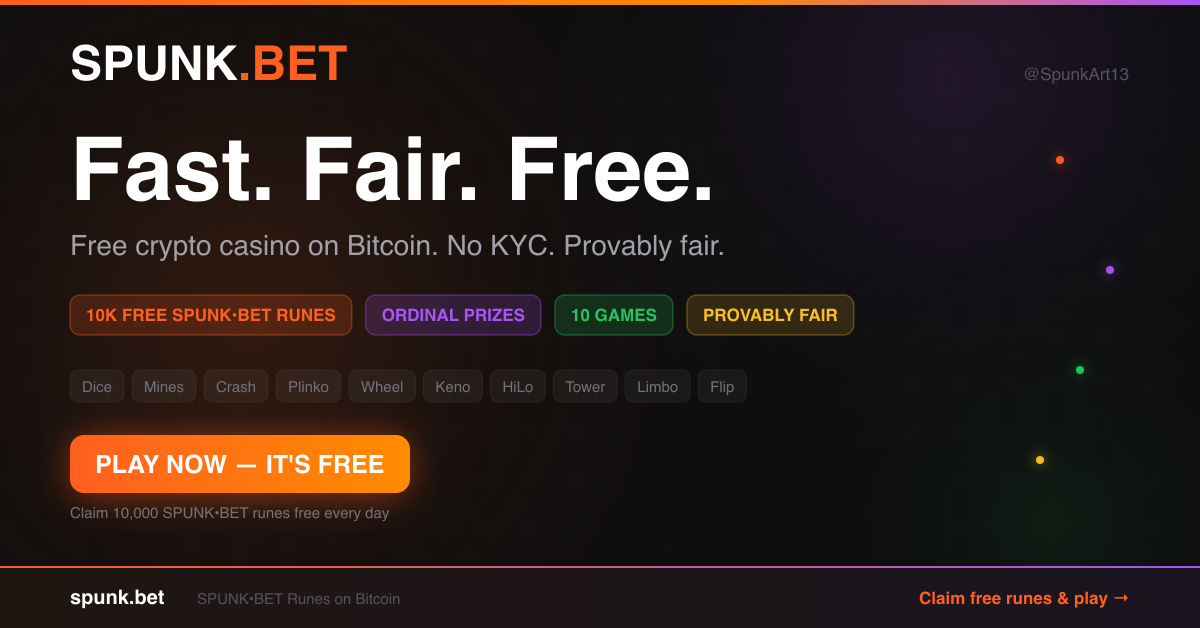
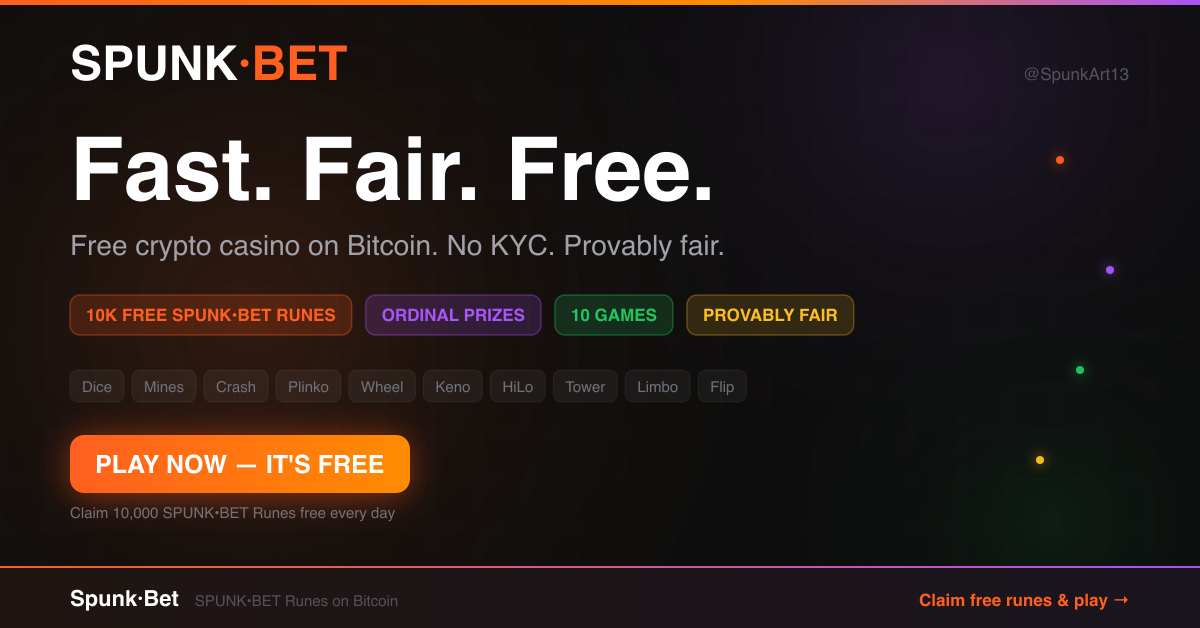
Brand consistency: uppercase SPUNK·BET, middle dot, matching colors everywhere
OG Share Image:
- SPUNK·BET with centered middle dot (not baseline period)
- Uppercase throughout

Win Card (X shares):
- SPUNK·BET uppercase logo with middle dot
- Dark background #0d0d0d matching site
- Orange + purple ambient glows matching site aesthetic
- Top bar: orange → purple gradient
- Bottom bar: gradient accent line matching site footer
- Grid pattern at 48px matching site

Prize Ordinals:
- Removed incorrect "SpunkArt Collection" — shows actual collection data
- Dynamic collection fetch from ME API for real attribution
- Generic ordinals show as "Bitcoin Ordinal" without fake badge
- Child inscriptions show parent link on wallet page
- Collection badge only appears for real named collections

diff --git a/index.html b/index.html
@@ -2664,29 +2664,41 @@ function generateWinCard(options) {
   c.width = 1200; c.height = 628;
   const ctx = c.getContext('2d');
 
-  // Background
-  ctx.fillStyle = '#0a0a0a';
+  // Background — matches site #0d0d0d
+  ctx.fillStyle = '#0d0d0d';
   ctx.fillRect(0, 0, 1200, 628);
 
-  // Subtle grid pattern
-  ctx.strokeStyle = 'rgba(255,255,255,0.02)';
-  ctx.lineWidth = 1;
-  for (let i = 0; i < 1200; i += 40) { ctx.beginPath(); ctx.moveTo(i, 0); ctx.lineTo(i, 628); ctx.stroke(); }
-  for (let i = 0; i < 628; i += 40) { ctx.beginPath(); ctx.moveTo(0, i); ctx.lineTo(1200, i); ctx.stroke(); }
+  // Orange ambient glow
+  const glow1 = ctx.createRadialGradient(200, 300, 0, 200, 300, 500);
+  glow1.addColorStop(0, 'rgba(255,95,31,0.12)'); glow1.addColorStop(1, 'rgba(0,0,0,0)');
+  ctx.fillStyle = glow1; ctx.fillRect(0, 0, 1200, 628);
 
-  // Top accent bar
+  // Purple ambient glow
+  const glow2 = ctx.createRadialGradient(900, 100, 0, 900, 100, 400);
+  glow2.addColorStop(0, 'rgba(168,85,247,0.08)'); glow2.addColorStop(1, 'rgba(0,0,0,0)');
+  ctx.fillStyle = glow2; ctx.fillRect(0, 0, 1200, 628);
+
+  // Subtle grid pattern
+  ctx.strokeStyle = 'rgba(255,255,255,0.018)';
+  ctx.lineWidth = 1;
+  for (let i = 0; i < 1200; i += 48) { ctx.beginPath(); ctx.moveTo(i, 0); ctx.lineTo(i, 628); ctx.stroke(); }
+  for (let i = 0; i < 628; i += 48) { ctx.beginPath(); ctx.moveTo(0, i); ctx.lineTo(1200, i); ctx.stroke(); }
+
+  // Top accent bar — orange to purple gradient
   const grad = ctx.createLinearGradient(0, 0, 1200, 0);
   grad.addColorStop(0, '#ff5f1f');
-  grad.addColorStop(1, '#ff8c00');
+  grad.addColorStop(0.6, '#ff8c00');
+  grad.addColorStop(1, '#a855f7');
   ctx.fillStyle = grad;
   ctx.fillRect(0, 0, 1200, 5);
 
-  // Logo
+  // Logo — SPUNK·BET uppercase with middle dot
   ctx.font = 'bold 38px -apple-system, system-ui, sans-serif';
   ctx.fillStyle = '#fff';
-  ctx.fillText('spunk', 60, 70);
+  ctx.fillText('SPUNK', 60, 70);
   ctx.fillStyle = '#ff5f1f';
-  ctx.fillText('.bet', 60 + ctx.measureText('spunk').width, 70);
+  const _lw = ctx.measureText('SPUNK').width;
+  ctx.fillText('\u00B7BET', 60 + _lw, 70);
 
   if (isReferral) {
     // Referral card
@@ -2756,11 +2768,16 @@ function generateWinCard(options) {
     ctx.fillText('Free daily runes \u00B7 Real ordinal prizes \u00B7 Free daily wheel spin', 60, 430);
   }
 
-  // Bottom bar with referral
-  ctx.fillStyle = '#111';
+  // Bottom bar with referral — brand-consistent
+  ctx.fillStyle = '#111111';
   ctx.fillRect(0, 540, 1200, 88);
-  ctx.fillStyle = 'rgba(255,95,31,0.08)';
-  ctx.fillRect(0, 540, 1200, 88);
+  const _bg = ctx.createLinearGradient(0, 540, 1200, 540);
+  _bg.addColorStop(0, 'rgba(255,95,31,0.06)'); _bg.addColorStop(1, 'rgba(168,85,247,0.06)');
+  ctx.fillStyle = _bg; ctx.fillRect(0, 540, 1200, 88);
+  // Accent line
+  const _bl = ctx.createLinearGradient(0, 0, 1200, 0);
+  _bl.addColorStop(0, '#ff5f1f'); _bl.addColorStop(1, '#a855f7');
+  ctx.fillStyle = _bl; ctx.fillRect(0, 540, 1200, 2);
 
   ctx.font = 'bold 26px -apple-system, system-ui, sans-serif';
   ctx.fillStyle = '#fff';
@@ -5336,7 +5353,7 @@ const KNOWN_PRIZES = [
     contentType: 'image/webp', contentLength: '63 KB',
     contentURI: 'https://ordinals.com/content/0a363cdd84ca2d49a9b55d20f82af5d82c781444f8d64caa09b95136e3306412i0',
     contentPreviewURI: 'https://ordinals.com/content/0a363cdd84ca2d49a9b55d20f82af5d82c781444f8d64caa09b95136e3306412i0',
-    collectionName: 'SpunkArt Collection', collection: 'spunkart',
+    collectionName: 'Bitcoin Ordinal', collection: '',
     timestamp: '2026-02-09', satRarity: 'common',
   },
   {
@@ -5346,7 +5363,7 @@ const KNOWN_PRIZES = [
     contentType: 'image/svg+xml', contentLength: '4 KB',
     contentURI: 'https://ordinals.com/content/d7244525a36a312105aa2c9db78778b98ec659b30b4e6063d7b9a9dfd47dc2b7i0',
     contentPreviewURI: 'https://ordinals.com/content/d7244525a36a312105aa2c9db78778b98ec659b30b4e6063d7b9a9dfd47dc2b7i0',
-    collectionName: 'SpunkArt Collection', collection: 'spunkart',
+    collectionName: 'Bitcoin Ordinal', collection: '',
     timestamp: '2026-02-13', satRarity: 'common',
   },
   {
@@ -5356,7 +5373,7 @@ const KNOWN_PRIZES = [
     contentType: 'image/webp', contentLength: '61 KB',
     contentURI: 'https://ordinals.com/content/65e06f5b9ccbd0202268e5f3d4d778e77c0a10af5ab1dbe55f7210f9121884adi0',
     contentPreviewURI: 'https://ordinals.com/content/65e06f5b9ccbd0202268e5f3d4d778e77c0a10af5ab1dbe55f7210f9121884adi0',
-    collectionName: 'SpunkArt Collection', collection: 'spunkart',
+    collectionName: 'Bitcoin Ordinal', collection: '',
     timestamp: '2026-02-09', satRarity: 'common',
   },
   {
@@ -5366,7 +5383,8 @@ const KNOWN_PRIZES = [
     contentType: 'image/svg+xml', contentLength: '1 KB',
     contentURI: 'https://ordinals.com/content/c6e9ad7454cf9bb8b1d75ec9df13229dee1e18f16a5fd57b6549de87e8cce4abi5',
     contentPreviewURI: 'https://ordinals.com/content/c6e9ad7454cf9bb8b1d75ec9df13229dee1e18f16a5fd57b6549de87e8cce4abi5',
-    collectionName: 'SpunkArt Collection', collection: 'spunkart',
+    collectionName: 'Bitcoin Ordinal', collection: '',
[1 lines of base64/hex data omitted]
     timestamp: '2026-02-08', satRarity: 'common',
   }
 ];
@@ -5385,9 +5403,45 @@ function enrichWithKnown(list) {
   return list.map(item => {
     const id = item.id || item.inscriptionId || '';
     const known = KNOWN_PRIZES.find(k => k.id === id);
-    if (known) return { ...known, ...item, collectionName: known.collectionName, collection: known.collection, inscriptionNumber: known.inscriptionNumber, number: known.number, contentType: known.contentType };
+    if (known) {
+      const merged = { ...known, ...item, inscriptionNumber: known.inscriptionNumber, number: known.number, contentType: known.contentType };
+      // Use API collection data if available, otherwise use known fallback
+      if (item.collectionName && item.collectionName !== 'Bitcoin Ordinal') {
+        merged.collectionName = item.collectionName;
+        merged.collection = item.collection || item.collectionSymbol || '';
+      } else {
+        merged.collectionName = known.collectionName;
+        merged.collection = known.collection;
+      }
+      if (known.parentInscription) merged.parentInscription = known.parentInscription;
+      return merged;
+    }
     return item;
   });
+}
+
+// Try to fetch real collection data from ME API for each ordinal
+async function fetchCollectionData(list) {
+  const updated = [...list];
+  for (let i = 0; i < updated.length; i++) {
+    const item = updated[i];
+    if (item.collection && item.collectionName !== 'Bitcoin Ordinal') continue; // Already has collection
+    const id = item.id || item.inscriptionId || '';
+    if (!id) continue;
+    try {
+      const res = await fetch('https://api-mainnet.magiceden.dev/v2/ord/btc/tokens/' + id);
+      if (res.ok) {
+        const data = await res.json();
+        if (data.collectionName) {
+          updated[i] = { ...item, collectionName: data.collectionName, collection: data.collectionSymbol || data.collection || '' };
+        }
+        if (data.meta && data.meta.name) {
+          updated[i].metaName = data.meta.name;
+        }
+      }
+    } catch(e) {}
+  }
+  return updated;
 }
 
 async function scanPrizeWallet() {
@@ -5469,6 +5523,17 @@ async function scanPrizeWallet() {
   // Enrich all items with known metadata (collection names, numbers, etc.)
   list = enrichWithKnown(list);
 
+  // Try to fetch real collection data from ME API (non-blocking)
+  fetchCollectionData(list).then(updated => {
+    const changed = updated.some((u, i) => u.collectionName !== list[i].collectionName);
+    if (changed) {
+      prizeOrdinals = updated;
+      localStorage.setItem('spunkbet_prizes', JSON.stringify(updated));
+      renderPrizes('prize-grid');
+      renderPrizes('wallet-prize-grid');
+    }
+  }).catch(() => {});
+
   // Update if we got data
   const hash = JSON.stringify(list.map(t => t.id || t.inscriptionId || ''));
   if (list.length > 0) {
@@ -5537,10 +5602,13 @@ function renderPrizes(containerId) {
       imgHtml = '<div class="prize-img-bg ' + bg + '"></div><span style="position:relative;z-index:1;filter:drop-shadow(0 4px 12px rgba(0,0,0,0.5));animation:prizeFloat 3s ease-in-out infinite;animation-delay:' + (i * 0.5) + 's;">🏆</span>';
     }
 
-    const title = collectionName !== 'Bitcoin Ordinal' ? collectionName : 'Inscription #' + num;
+    const metaName = ord.metaName || '';
+    const hasRealCollection = collection && collectionName !== 'Bitcoin Ordinal';
+    const title = hasRealCollection ? collectionName : (metaName || 'Inscription #' + num);
+    const parentId = ord.parentInscription || '';
 
-    // Collection badge color
-    const collBadge = collection ? '<span style="display:inline-block;background:linear-gradient(90deg,var(--accent),var(--purple));color:#fff;font-size:0.55rem;font-weight:700;padding:0.15rem 0.4rem;border-radius:4px;text-transform:uppercase;letter-spacing:0.04em;margin-bottom:0.2rem;">' + collectionName + '</span>' : '';
+    // Collection badge — only show for real named collections, not generic ordinals
+    const collBadge = hasRealCollection ? '<span style="display:inline-block;background:linear-gradient(90deg,var(--accent),var(--purple));color:#fff;font-size:0.55rem;font-weight:700;padding:0.15rem 0.4rem;border-radius:4px;text-transform:uppercase;letter-spacing:0.04em;margin-bottom:0.2rem;">' + collectionName + '</span>' : '';
 
     // Extended details for wallet page
     let detailsHtml = '';
@@ -5550,6 +5618,7 @@ function renderPrizes(containerId) {
           '<div>Inscription <span style="color:var(--text);font-weight:600;">#' + num + '</span></div>' +
           '<div>Type: <span style="color:var(--text);">' + contentType + '</span>' + (contentLength ? ' &middot; ' + contentLength : '') + '</div>' +
           (timestamp ? '<div>Inscribed: <span style="color:var(--text);">' + timestamp + '</span></div>' : '') +
+          (parentId ? '<div>Parent: <a href="https://ordinals.com/inscription/' + parentId + '" target="_blank" style="color:var(--purple);text-decoration:none;">#' + parentId.slice(0,8) + '... ↗</a></div>' : '') +
           '<div style="margin-top:0.25rem;"><a href="' + ordLink + '" target="_blank" style="color:var(--accent);text-decoration:none;font-size:0.6rem;">View on ordinals.com ↗</a></div>' +
         '</div>';
     }
